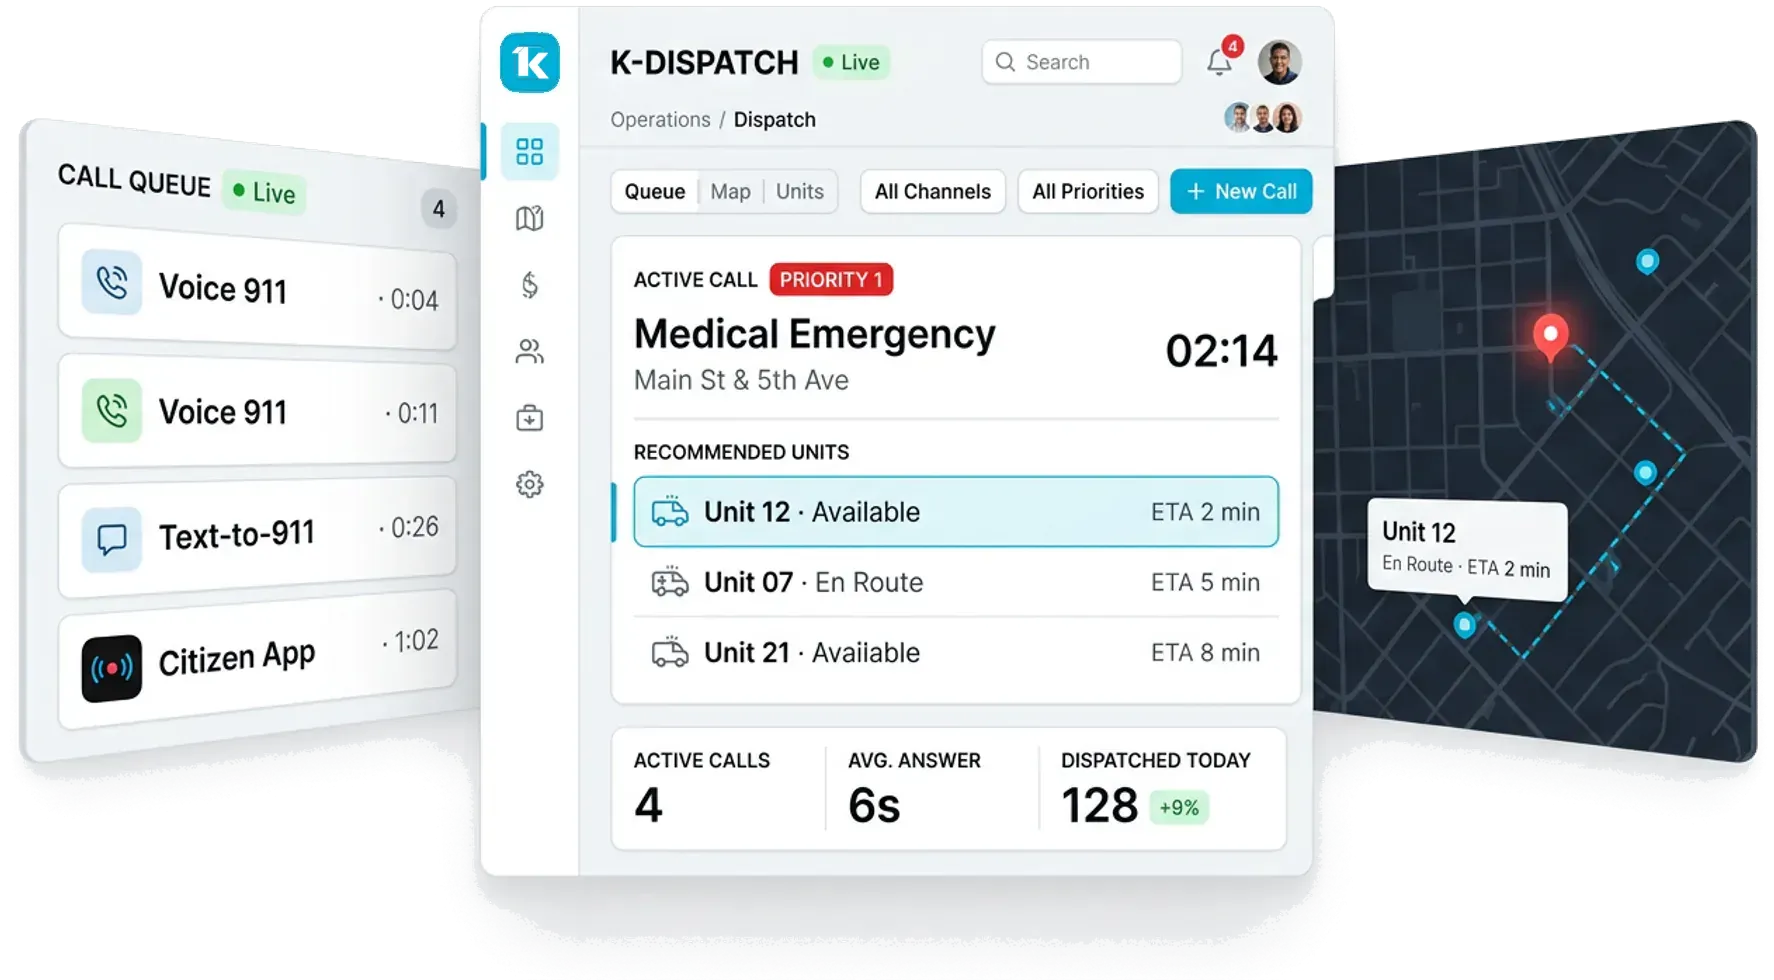
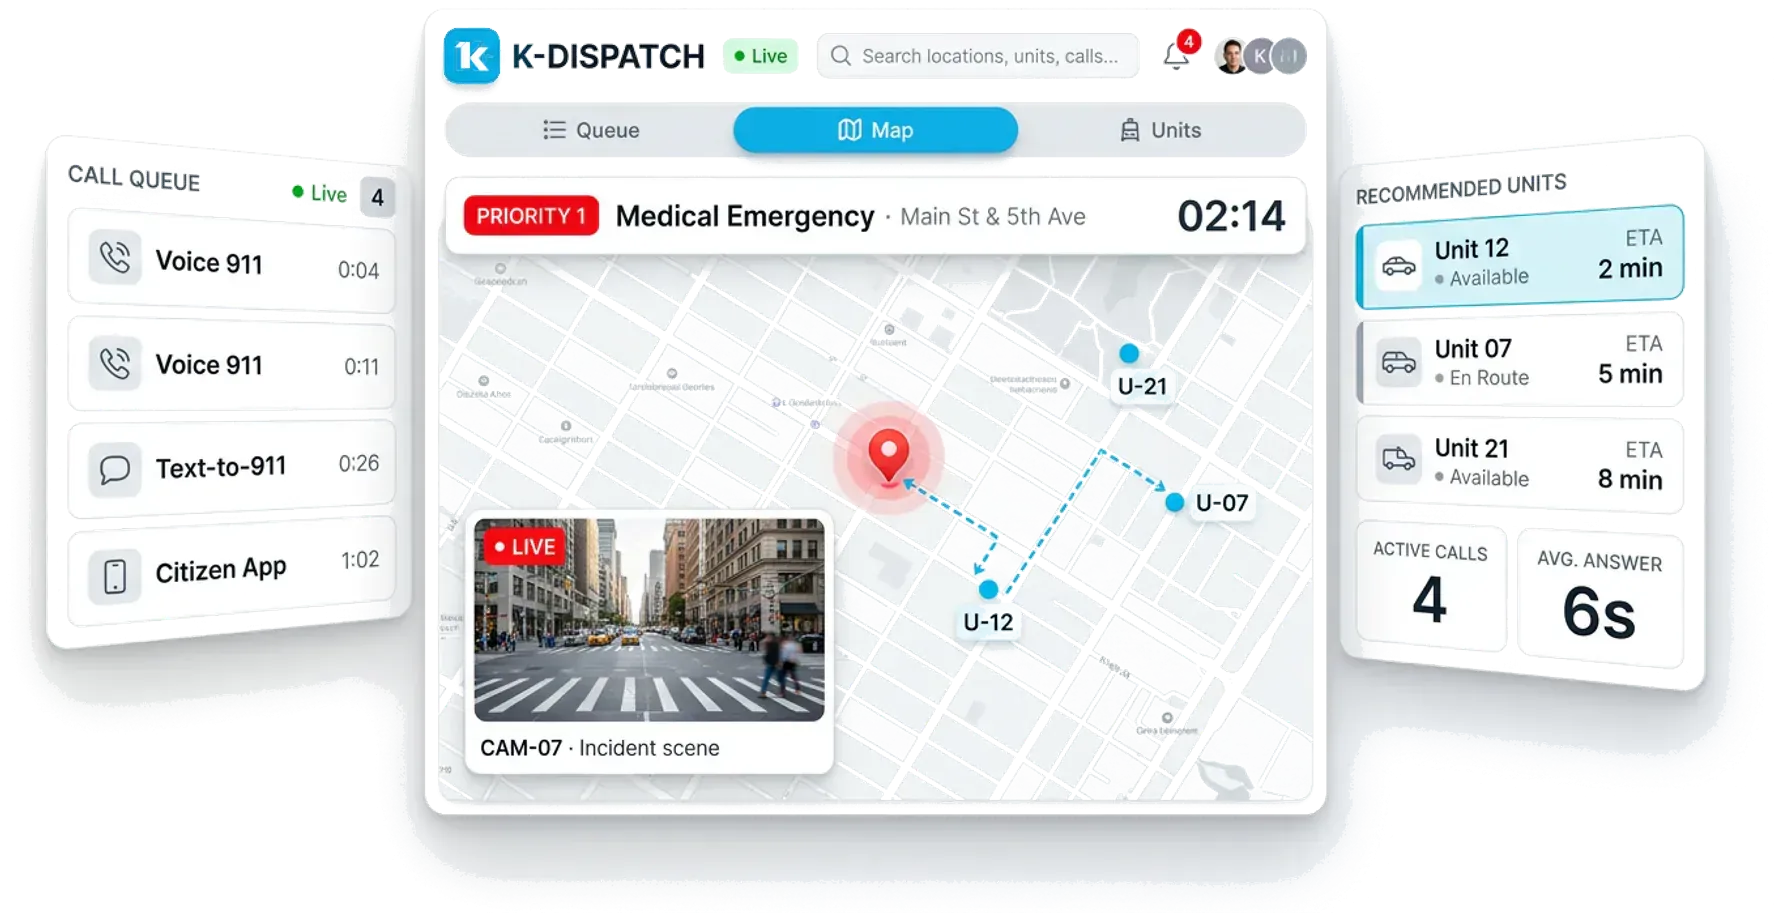
Change: K-Dispatch hero — map centre-stage with a live video inset (v2.312)
Recomposes the hero around the map: the live dispatch map moves from a
side panel to the centre, with the call queue moving left and
recommended units plus KPIs moving right. Dispatch is a geographic job,
so the map now carries the composition rather than sitting in support.

Adds a live video inset over the map — picture-in-picture camera card
with a LIVE badge and CAM-07 caption — so the hero shows video and
location together the way an operator sees them.

The map is now light, matching the panel language. The previous version
came back dark, which read fine as a side panel but would have been a
hard break in the set once promoted to centre.

Real 1K mark composited in as usual (badge at 444,28 / 56x56). Same
geometry as K-Safety: 41% scale, ~9.1px labels, nothing clipped.

diff --git a/changelog.html b/changelog.html
@@ -356,6 +356,21 @@
 
     <div class="timeline">
 
+      <!-- v2.312 -->
+      <div class="tl-entry changed" id="v2.312">
+        <div class="tl-meta"><span class="tl-ver">v2.312</span><span class="tl-date">2026-08-04</span></div>
+        <div class="tl-title">K-Dispatch hero: map centre-stage with a live video inset</div>
+        <div class="tl-body">
+          <ul class="version-changes">
+            <li><strong>Recomposed around the map</strong> — the live dispatch map moves from a side panel to the centre, with the call queue moving left and recommended units plus KPIs moving right. Dispatch is a geographic job, so the map now carries the composition</li>
+            <li><strong>Added a live video inset over the map</strong> — picture-in-picture camera card with a red LIVE badge and "CAM-07 · Incident scene" caption, showing video and location together the way an operator sees them</li>
+            <li>Map is now <strong>light</strong>, matching the panel language; the previous dark map read fine in support but would have broken the set once promoted to centre</li>
+            <li>Same geometry as K-Safety: 41% scale, ~9.1px labels, side-by-side, nothing clipped. Real 1K mark composited in (badge at 444,28 / 56×56)</li>
+            <li>208KB (from 95KB) — the light basemap and camera still are photographic detail the encoder carries. Known cosmetic: the generated basemap has nonsense street labels, ~4px at hero scale so they read as texture</li>
+          </ul>
+        </div>
+      </div>
+
       <!-- v2.311 -->
       <div class="tl-entry feat" id="v2.311">
         <div class="tl-meta"><span class="tl-ver">v2.311</span><span class="tl-date">2026-08-04</span></div>

diff --git a/CHANGELOG.md b/CHANGELOG.md
@@ -1,3 +1,15 @@
+## [v2.312] – 2026-08-04 — K-Dispatch hero: map centre-stage with a live video inset
+### Changed
+- **Recomposed the K-Dispatch hero around the map.** The live dispatch map moves from a side panel to the centre — the largest, forward-facing surface — with the call queue moving left and recommended units plus KPIs moving right. Dispatch is a geographic job, so the map now carries the composition rather than sitting in support.
+- **Added a live video inset over the map**: a picture-in-picture camera card with a red LIVE badge and a "CAM-07 · Incident scene" caption, so the hero shows video and location together the way an operator actually sees them.
+- The map is now **light**, matching the panel language. The previous version's map came back dark, which read fine as a side panel but would have been a hard break in the set once promoted to centre.
+
+### Notes
+- Same measured geometry as before and as K-Safety: 41% scale, ~9.1px effective labels, side-by-side, nothing clipped.
+- Real 1K mark composited in as usual (badge at 444,28 / 56x56, fill `rgb(5,170,233)`), so it never shipped with an invented glyph.
+- 208KB, up from 95KB — the light street map and the added camera still are both photographic-ish detail the encoder has to carry. Still comfortably under K-Safety's 213KB.
+- Known cosmetic: the generated basemap carries some nonsense street labels. They render at roughly 4px at hero scale so they read as map texture rather than words, but they are there under magnification.
+
 ## [v2.311] – 2026-08-04 — K-Dispatch hero: purpose-built three-panel composition
 ### Added
 - **New K-Dispatch hero**, built to the recipe established on K-Safety: call queue by intake channel, CAD console with the active call and recommended units, and a live dispatch map. Drawn for the hero slot — few elements at large type — rather than a dense screenshot shrunk to fit.
